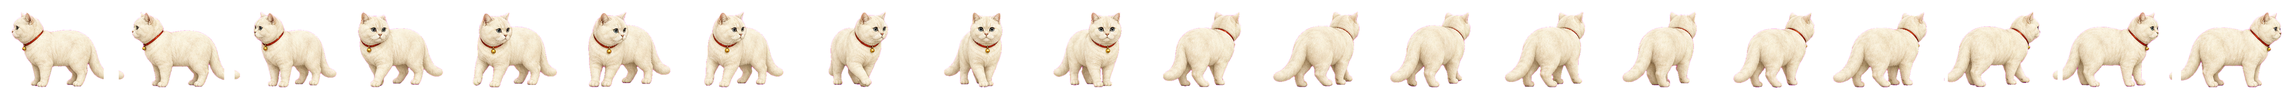
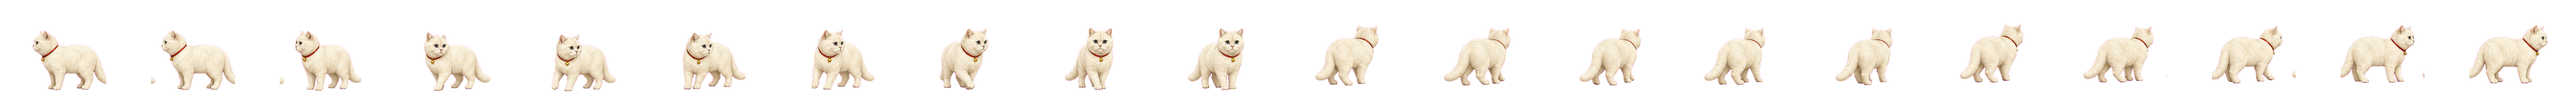
Fix sprite jitter and clipping

Changed region(s): [[0.0, 0.1538, 1.0, 0.9846]]

diff --git a/styles.css b/styles.css
@@ -49,7 +49,7 @@ body {
   left: 8vw;
   bottom: clamp(8%, 11vh, 15%);
   width: var(--cat-width);
-  aspect-ratio: 1.2308;
+  aspect-ratio: 1.3846;
   transform-origin: center bottom;
   animation: cat-travel 20s linear infinite;
   will-change: transform;
